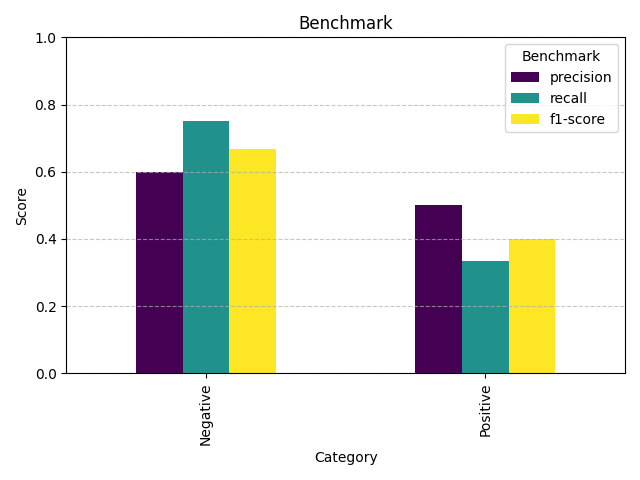
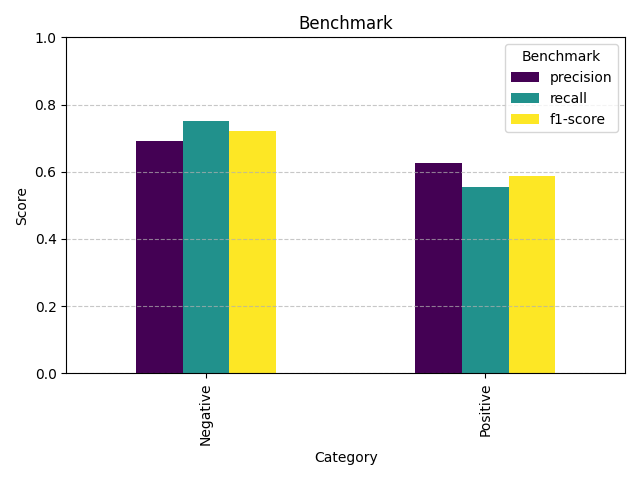
增加基线校正，增加分类器训练、情绪分类工具

Changed region(s): [[0.625, 0.3125, 0.875, 0.5625], [0.1875, 0.2812, 0.3125, 0.375], [0.3438, 0.25, 0.4375, 0.3125]]

diff --git a/server/emotion_devide_test_app.py b/server/emotion_devide_test_app.py
@@ -162,7 +162,227 @@ def experiment():
         "accuracy": float(accuracy)
     }), 200
 
-
+@app.route('/experiment_3', methods=['POST'])
+def experiment_3():
+    global selected_channel_idxes
+    global features
+    global clf
+    
+    print("\n" + "#" * 50)
+    print("🚀 开始情感调节实验 🚀")
+    print("#" * 50 + "\n")
+    
+    time.sleep(1)
+    
+    # 创建实验结果保存目录
+    exp_save_path = f'/mnt/dataset0/xkp/closed-loop/exp_sub{subject_id}/emotion_regulation'
+    os.makedirs(exp_save_path, exist_ok=True)
+    
+    # 获取所有可用图像
+    all_images = []
+    for root, dirs, files in os.walk(image_set_path):
+        for file in files:
+            if file.endswith(('.jpg', '.png', '.jpeg')):
+                img_path = os.path.join(root, file)
+                # 根据文件名获取情绪标签
+                emotion_label = get_emotion_label_from_path(img_path)
+                all_images.append((img_path, emotion_label))
+    
+    # 按情绪标签分组
+    positive_images = [img for img, label in all_images if label == 1]
+    negative_images = [img for img, label in all_images if label == 0]
+    
+    print(f"可用正面情绪图像: {len(positive_images)}张")
+    print(f"可用负面情绪图像: {len(negative_images)}张")
+    
+    # 情绪概率结果存储
+    emotion_probs = []
+    actual_labels = []
+    block_types = []
+    
+    # 执行10个loop
+    for loop_idx in range(num_loops):
+        print(f"\n=== 开始Loop {loop_idx+1}/{num_loops} ===")
+        
+        # 随机选择本次loop使用positive还是negative图像
+        if loop_idx % 2 == 0:  # 偶数loop使用正面情绪，奇数loop使用负面情绪
+            selected_images = random.sample(positive_images, 10)
+            block_type = "positive"
+            expected_label = 1
+        else:
+            selected_images = random.sample(negative_images, 10)
+            block_type = "negative"
+            expected_label = 0
+        
+        block_types.append(block_type)
+        print(f"当前block类型: {block_type}")
+        
+        # 创建当前loop的保存目录
+        loop_save_path = os.path.join(exp_save_path, f"loop_{loop_idx+1}")
+        os.makedirs(loop_save_path, exist_ok=True)
+        
+        # 向客户端发送图像并收集EEG数据
+        print(f"向客户端发送{len(selected_images)}张图像...")
+        
+        # 清空临时EEG目录
+        if os.path.exists(instant_eeg_path):
+            shutil.rmtree(instant_eeg_path)
+        os.makedirs(instant_eeg_path, exist_ok=True)
+        
+        # 准备图像发送
+        images_base64 = []
+        for img_path in selected_images:
+            with open(img_path, "rb") as image_file:
+                encoded_string = base64.b64encode(image_file.read()).decode('utf-8')
+                images_base64.append(encoded_string)
+        
+        # 发送图像和当前loop信息
+        socketio.emit('exp3_images', {
+            'images': images_base64,
+            'loop': loop_idx + 1,
+            'total_loops': num_loops,
+            'block_type': block_type
+        })
+        
+        # 等待EEG数据采集完成
+        while True:
+            # 检查是否收到10个EEG文件
+            files = [f for f in os.listdir(instant_eeg_path) if f.endswith('.npy')]
+            if len(files) >= 10:
+                print(f"收到{len(files)}个EEG文件，继续处理...")
+                break
+            time.sleep(1)
+            print("等待EEG数据...")
+        
+        # 处理收到的EEG数据
+        loop_eeg_data = []
+        loop_predictions = []
+        
+        for i, file in enumerate(sorted(os.listdir(instant_eeg_path))):
+            if file.endswith('.npy'):
+                # 加载EEG数据
+                eeg_path = os.path.join(instant_eeg_path, file)
+                eeg_data = np.load(eeg_path)
+                
+                # 保存到loop目录
+                dest_path = os.path.join(loop_save_path, f"image_{i+1}_{block_type}.npy")
+                shutil.copy(eeg_path, dest_path)
+                
+                # 情绪分类
+                if eeg_data.shape[0] == 64:  # 确认数据格式正确
+                    # 提取单个样本的PSD特征
+                    if selected_channel_idxes:
+                        eeg_sample = eeg_data[selected_channel_idxes, :]
+                    else:
+                        eeg_sample = eeg_data
+                    
+                    psd, _ = psd_array_multitaper(eeg_sample, fs, adaptive=True, normalization='full', verbose=0)
+                    psd_flat = psd.flatten()
+                    
+                    # 使用分类器预测情绪概率
+                    proba = clf.predict_proba([psd_flat])[0]
+                    positive_prob = proba[1]  # 正面情绪的概率
+                    
+                    loop_predictions.append(positive_prob)
+                    emotion_probs.append(positive_prob)
+                    actual_labels.append(expected_label)
+                    
+                    print(f"图像 {i+1} 正面情绪概率: {positive_prob:.4f}")
+                else:
+                    print(f"警告: 图像 {i+1} 的EEG数据形状不正确: {eeg_data.shape}")
+        
+        # 清空临时目录
+        shutil.rmtree(instant_eeg_path)
+        os.makedirs(instant_eeg_path, exist_ok=True)
+        
+        # 计算这个block的平均情绪概率
+        avg_prob = np.mean(loop_predictions)
+        print(f"Loop {loop_idx+1} 平均正面情绪概率: {avg_prob:.4f}")
+        
+        # 保存本loop的结果
+        loop_results = {
+            'block_type': block_type,
+            'expected_label': expected_label,
+            'emotion_probs': loop_predictions,
+            'average_prob': avg_prob
+        }
+        np.save(os.path.join(loop_save_path, 'results.npy'), loop_results)
+    
+    # 实验完成后绘制情绪概率曲线
+    import matplotlib.pyplot as plt
+    import pandas as pd
+    
+    # 创建DataFrame便于绘图
+    df = pd.DataFrame({
+        'Sample': range(1, len(emotion_probs) + 1),
+        'Positive_Probability': emotion_probs,
+        'Actual_Label': actual_labels
+    })
+    
+    # 添加Block信息
+    block_info = []
+    for i, block_type in enumerate(block_types):
+        block_info.extend([f"Block {i+1}: {block_type}"] * 10)
+    df['Block'] = block_info
+    
+    # 绘制情绪概率曲线
+    plt.figure(figsize=(15, 8))
+    
+    # 为不同block添加背景色
+    for i in range(num_loops):
+        plt.axvspan(i*10+1, (i+1)*10, alpha=0.2, 
+                   color='green' if block_types[i] == 'positive' else 'red')
+    
+    # 绘制概率曲线
+    plt.plot(df['Sample'], df['Positive_Probability'], 'bo-', markersize=4, label='正面情绪概率')
+    plt.axhline(y=0.5, color='gray', linestyle='--', label='决策阈值')
+    
+    # 标注每个block
+    for i in range(num_loops):
+        plt.text((i*10) + 5, 0.05, f"Block {i+1}\n{block_types[i]}", 
+                horizontalalignment='center', fontsize=9)
+    
+    plt.title('情绪调节实验 - 正面情绪概率曲线')
+    plt.xlabel('样本序号')
+    plt.ylabel('正面情绪概率')
+    plt.ylim(0, 1)
+    plt.grid(True, alpha=0.3)
+    plt.legend()
+    plt.tight_layout()
+    
+    # 保存图表
+    plt.savefig(os.path.join(exp_save_path, 'emotion_probability_curve.png'))
+    
+    # 计算每个block的平均概率
+    plt.figure(figsize=(12, 6))
+    block_avg = df.groupby('Block')['Positive_Probability'].mean()
+    
+    # 为不同类型的block使用不同颜色
+    colors = ['green' if 'positive' in idx else 'red' for idx in block_avg.index]
+    block_avg.plot(kind='bar', color=colors)
+    
+    plt.title('每个Block的平均正面情绪概率')
+    plt.ylabel('平均正面情绪概率')
+    plt.axhline(y=0.5, color='black', linestyle='--')
+    plt.ylim(0, 1)
+    plt.grid(axis='y', alpha=0.3)
+    plt.tight_layout()
+    
+    # 保存图表
+    plt.savefig(os.path.join(exp_save_path, 'block_averages.png'))
+    
+    # 向客户端发送实验完成信号
+    print('Send: experiment_3_finished')
+    socketio.emit('experiment_3_finished', {
+        'message': "情感调节实验完成",
+        'result_path': exp_save_path
+    })
+    
+    return jsonify({
+        "message": "情感调节实验完成",
+        "result_path": exp_save_path
+    }), 200
+    
 @app.route('/instant_eeg_upload', methods=['POST'])
 def process_instant_eeg():
     if 'files' not in request.files:

diff --git a/client/eeg_process.py b/client/eeg_process.py
@@ -92,9 +92,10 @@ def preprocessing(raw_data):
     scalings = {'eeg': 1e6}
     return raw_data
 
-def real_time_processing(original_data_path, preprocess_data_path, filters):
-    """高效处理实时EEG数据"""
+def real_time_processing(original_data_path, preprocess_data_path, filters, apply_baseline=True):
+    """高效处理实时EEG数据，包括基线校正"""
     data = np.load(original_data_path)
+    
     # 应用陷波滤波器
     filtered_data = signal.filtfilt(filters['notch'][0], filters['notch'][1], data, axis=1)
     
@@ -106,11 +107,34 @@ def real_time_processing(original_data_path, preprocess_data_path, filters):
         new_length = int(filtered_data.shape[1] * filters['resample_factor'])
         filtered_data = signal.resample(filtered_data, new_length, axis=1)
     
+    # 应用基线校正
+    if apply_baseline:
+        # 每张图片展示1秒，停顿1秒的设计
+        # 假设数据结构是: 停顿1秒 -> 图片呈现1秒 -> 停顿1秒 -> ...
+        # 我们使用每个图片呈现前的停顿期作为基线
+        # 注意：这里假设采样率为250Hz，所以1秒对应250个数据点
+        
+        # 确定数据长度够不够一个完整的刺激周期
+        if filtered_data.shape[1] >= 500:  # 至少需要2秒数据(停顿1秒+刺激1秒)
+            # 使用停顿期的最后250ms作为基线
+            baseline_window = (-250, 0)  # 刺激前250ms作为基线
+            stimulus_onset = 250  # 刺激在第250个点开始(第1秒开始)
+            
+            # 计算基线均值(使用刺激前的250ms数据)
+            baseline_start = stimulus_onset + int(baseline_window[0] * 250 / 1000)
+            baseline_end = stimulus_onset + int(baseline_window[1] * 250 / 1000)
+            baseline_mean = np.mean(filtered_data[:, baseline_start:baseline_end], axis=1, keepdims=True)
+            
+            # 减去基线均值
+            filtered_data = filtered_data - baseline_mean
+    
     os.makedirs(os.path.dirname(preprocess_data_path), exist_ok=True)
     np.save(preprocess_data_path, filtered_data)
+    return filtered_data
 
 
-def create_event_based_npy(original_data_path, preprocess_data_path, output_data_dir):
+def create_event_based_npy(original_data_path, preprocess_data_path, output_data_dir, apply_baseline=True):
+    """创建基于事件的数据，并应用基线校正"""
     # 读取原始数据
     raw_data = np.load(original_data_path)
     events = raw_data[64, :]  # 第65行存储event信息
@@ -123,17 +147,66 @@ def create_event_based_npy(original_data_path, preprocess_data_path, output_data
     
     # 将原始数据的索引转换为降采样后的索引
     event_indices = event_indices // 4
+    
     for idx, event_idx in enumerate(event_indices):
+        # 我们假设每个事件前有一个停顿期
+        # 如果event_idx小于250，那么我们就没有足够的前导数据作为基线
+        if event_idx < 250:
+            print(f"警告: 事件 {idx+1} 没有足够的前导数据用于基线校正")
+            continue
+            
         if event_idx + 250 <= preprocessed_data.shape[1]:  # 确保索引不越界
-            # 取出 event后 250 个时间点的数据，对应 1 秒
-            event_data = preprocessed_data[:64, event_idx:event_idx + 250]
+            # 提取基线期间(事件前250ms)和事件期间的数据
+            baseline_start = event_idx - 250
+            baseline_end = event_idx
+            event_data = preprocessed_data[:64, event_idx:event_idx + 250]  # 事件后1秒数据
+            
+            if apply_baseline:
+                # 计算基线均值
+                baseline_data = preprocessed_data[:64, baseline_start:baseline_end]
+                baseline_mean = np.mean(baseline_data, axis=1, keepdims=True)
+                
+                # 应用基线校正
+                corrected_event_data = event_data - baseline_mean
+            else:
+                corrected_event_data = event_data
             
             # 保存每个事件数据为单独的.npy文件
-            # 命名为 1.npy, 2.npy, ..., n.npy
             event_output_path = os.path.join(output_data_dir, f'{idx+1}.npy')
             os.makedirs(os.path.dirname(event_output_path), exist_ok=True)
-            np.save(event_output_path, event_data)
+            np.save(event_output_path, corrected_event_data)
 
+def baseline_correction(eeg_data_path, baseline_window=(-250, 0), stimulus_onset=250):
+    """
+    对EEG数据进行基线校正
+    
+    参数:
+    eeg_data_path: 包含EEG数据的.npy文件路径
+    baseline_window: 基线窗口范围(以毫秒为单位，相对于刺激呈现时间点)
+    stimulus_onset: 在数据中刺激呈现的时间点索引
+    
+    返回:
+    baseline_corrected_data: 基线校正后的EEG数据
+    """
+    # 加载EEG数据
+    eeg_data = np.load(eeg_data_path)
+    
+    # 转换毫秒时间窗口到数据点索引
+    fs = 250  # 采样率
+    baseline_start = stimulus_onset + int(baseline_window[0] * fs / 1000)
+    baseline_end = stimulus_onset + int(baseline_window[1] * fs / 1000)
+    
+    # 确保索引在有效范围内
+    baseline_start = max(0, baseline_start)
+    baseline_end = min(eeg_data.shape[1], baseline_end)
+    
+    # 计算基线期间的平均值
+    baseline_mean = np.mean(eeg_data[:, baseline_start:baseline_end], axis=1, keepdims=True)
+    
+    # 减去基线均值进行校正
+    baseline_corrected_data = eeg_data - baseline_mean
+    
+    return baseline_corrected_data
 
 if __name__ == '__main__':
     # 读取原始数据文件
